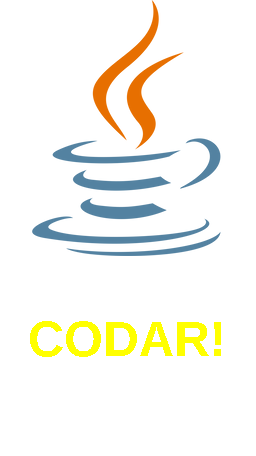
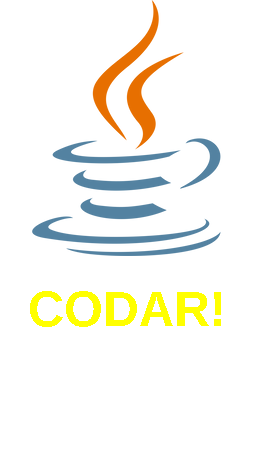
finalizando o projeto

Changed region(s): [[0.0938, 0.614, 0.875, 0.7982]]

diff --git a/ImersaoJava/src/GeradorDeFigurinhas.java b/ImersaoJava/src/GeradorDeFigurinhas.java
@@ -29,7 +29,7 @@ public class GeradorDeFigurinhas {
         graphics.setFont(fonte);
 
         // graphics.drawString("MUITO TOP!", 400, novaAltura - 30);
-        graphics.drawString("CODAR!", 28, novaAltura - 100);
+        graphics.drawString("CODAR!", 28, novaAltura - 130);
 
         ImageIO.write(novaImagem, "png", new File(nomeArquivo));
     }
